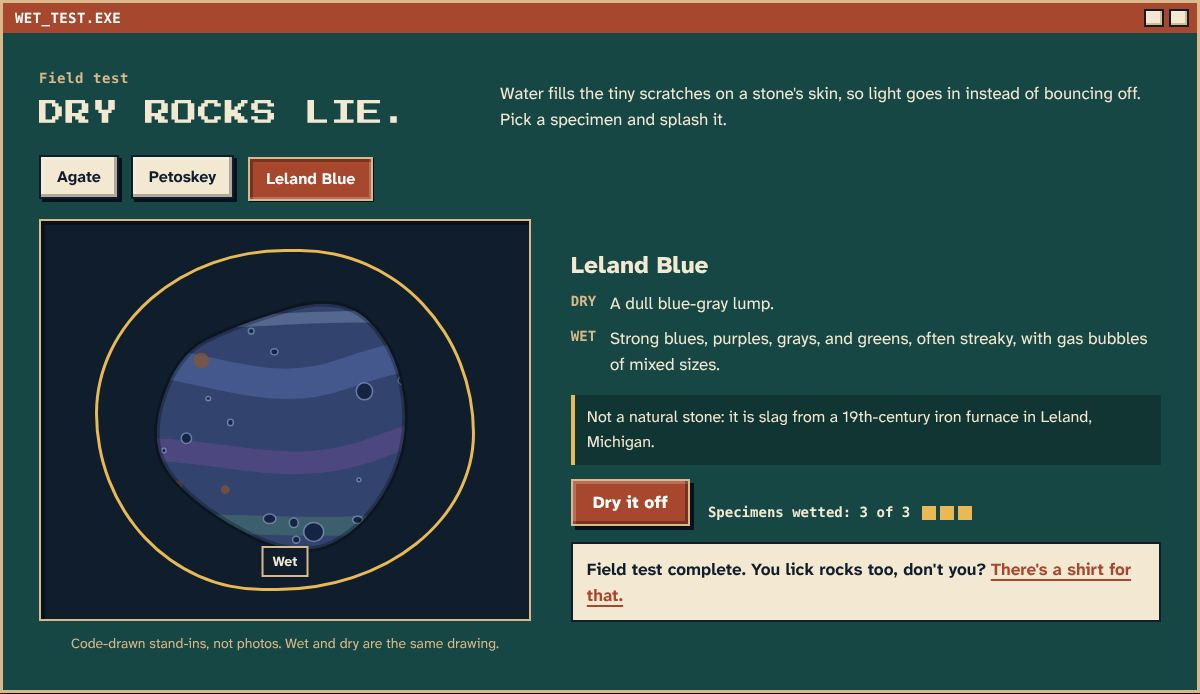
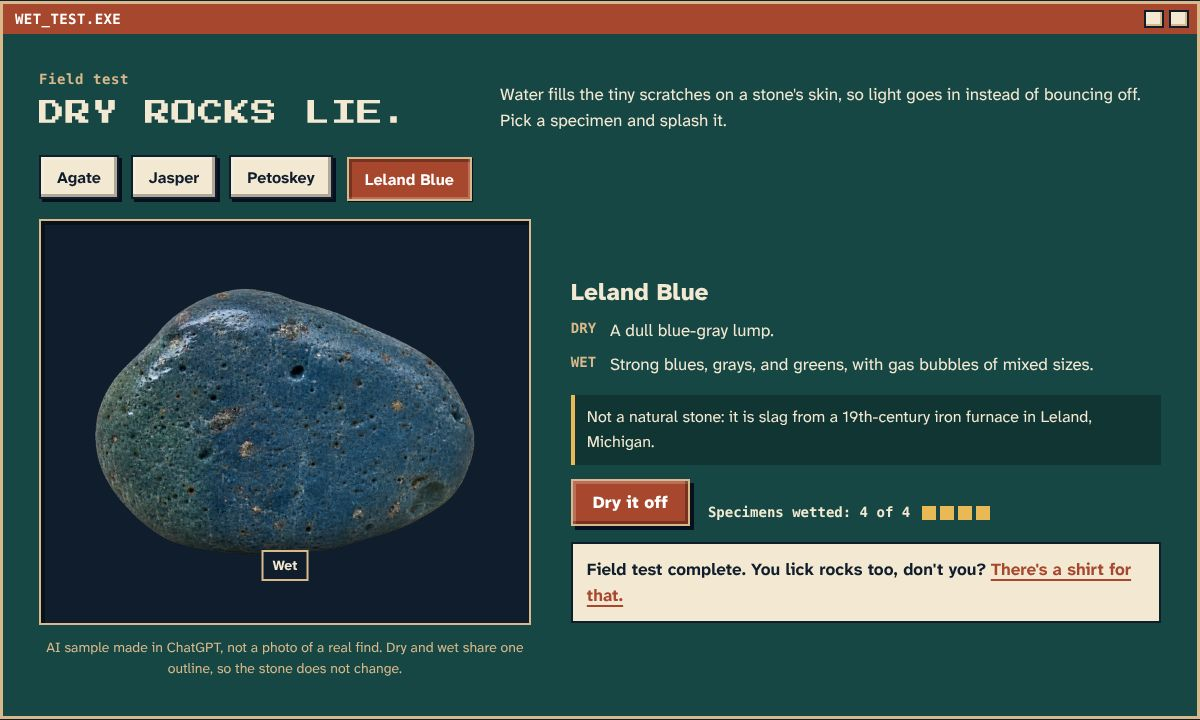
Use ChatGPT stone pairs for every wet-test specimen
Adds red jasper, Petoskey, and Leland Blue dry/wet AI sample pairs.
scripts/stone_pairs.py gives each pair one shared outline (removing the
baked-in glow halo) and an identical crop. The wet test now has four
stones; the code-drawn stones are retired.

Claude-Session: https://claude.ai/code/session_01AdWLFtHpwbtihYBfYsohYt

diff --git a/theme/v2/storefront.js b/theme/v2/storefront.js
@@ -91,72 +91,37 @@ function tee(kind){
   return svg;
 }
 
-/* ---------- 4. Field-guide stones (code-drawn stand-ins, flagged as such) ----------
-   Petoskey cells are irregular on purpose (IMAGE_STANDARDS.md: varied, incomplete,
-   flush cells, never stamped identical hexagons). Wetting only changes filters
-   and dust, so wet and dry are always the same specimen. */
+/* ---------- 4. Wet-test stones ----------
+   Every stone is a ChatGPT AI sample pair. Each pair shares ONE outline
+   (scripts/stone_pairs.py, alpha channels identical), so wetting only changes
+   the surface, never the stone. */
 var STONES={
-  agate:{name:"Lake Superior agate",label:"Code-drawn Lake Superior agate: a red-brown pebble with uneven red and cream bands",
+  agate:{name:"Lake Superior agate",img:"agate-hero",
+    alt:"AI sample of a dry Lake Superior agate: a dusty, muted rust-red pebble with faint bands",
+    credit:"AI sample made in ChatGPT, not a photo of a real find. The wet image is an edit of the dry one, so the stone does not change.",
     dry:"A dull, waxy, often pitted red-brown pebble that hides in plain sight.",
     wet:"Glossy and a little see-through at the edges, sometimes with thin bands on a broken face.",
     aside:"Hold it up to the sun. The only red rock on the beach that lets a little daylight through."},
-  petoskey:{name:"Petoskey stone",label:"Code-drawn Petoskey stone: gray limestone with irregular, roughly six-sided coral cells, each with a dark center",
+  jasper:{name:"Red jasper",img:"jasper",
+    alt:"AI sample of a dry red jasper pebble: opaque brick red with a thin pale vein",
+    credit:"AI sample made in ChatGPT, not a photo of a real find. Dry and wet share one outline, so the stone does not change.",
+    dry:"A dull brick-red pebble, sometimes with a thin pale vein.",
+    wet:"A deeper, glossier red, but still opaque: no light passes through, and no bands.",
+    aside:"A classic agate lookalike. If daylight will not pass through the edges, it is not an agate."},
+  petoskey:{name:"Petoskey stone",img:"petoskey",
+    alt:"AI sample of a dry Petoskey stone: pale gray limestone with faint round coral cells",
+    credit:"AI sample made in ChatGPT, not a photo of a real find. Dry and wet share one outline, so the stone does not change.",
     dry:"A plain gray or tan limestone pebble, maybe faintly mottled.",
-    wet:"Tightly packed, roughly six-sided cells show up, each with a dark eye and thin lines radiating out.",
+    wet:"Tightly packed cells show up, each with a dark eye and thin lines radiating out.",
     aside:"A fossil coral colony from a Devonian sea. Michigan's state stone since 1965."},
-  leland:{name:"Leland Blue",label:"Code-drawn Leland Blue slag: a blue-gray lump with streaks of blue, purple, and green and uneven bubbles",
+  leland:{name:"Leland Blue",img:"leland",
+    alt:"AI sample of a dry Leland Blue: a dull blue-gray lump with small pores of mixed sizes",
+    credit:"AI sample made in ChatGPT, not a photo of a real find. Dry and wet share one outline, so the stone does not change.",
     dry:"A dull blue-gray lump.",
-    wet:"Strong blues, purples, grays, and greens, often streaky, with gas bubbles of mixed sizes.",
+    wet:"Strong blues, grays, and greens, with gas bubbles of mixed sizes.",
     aside:"Not a natural stone: it is slag from a 19th-century iron furnace in Leland, Michigan."}
 };
-function stone(kind){
-  var id="s"+(uid++),r=rng({agate:23,petoskey:58,leland:91}[kind]);
-  var svg=el("svg",{viewBox:"0 0 200 180",role:"img","aria-label":STONES[kind].label});
-  var out=pebble(r,100,92,80,9);
-  var defs=el("defs",{}),cp=el("clipPath",{id:id+"c"});cp.appendChild(el("path",{d:out}));defs.appendChild(cp);svg.appendChild(defs);
-  var g=el("g",{"clip-path":"url(#"+id+"c)"});
-  if(kind==="agate"){
-    g.appendChild(el("rect",{width:"200",height:"180",fill:"#6E3424"}));
-    var base=[];for(var i=0;i<8;i++){var th=i/8*Math.PI*2+.4;base.push([Math.cos(th)*(1+(r()-.5)*.3),Math.sin(th)*(1+(r()-.5)*.3)*.86]);}
-    var dk=["#9A2E1A","#B5532F","#7E2616","#C46A3E"],lt=["#EDE3D2","#F1E7DA","#D9B99B"],s=.9,k=0;
-    while(s>.2&&k<60){
-      if(r()<.4){var cx=112+22*(1-s),cy=86-12*(1-s);g.appendChild(el("path",{d:roundPoly(base.map(function(p){return[cx+p[0]*70*s,cy+p[1]*70*s];})),fill:dk[k%4]}));s-=.06+r()*.07;k++;}
-      else{for(var j=0;j<4+Math.floor(r()*4)&&s>.2;j++){var cx2=112+22*(1-s),cy2=86-12*(1-s);g.appendChild(el("path",{d:roundPoly(base.map(function(p){return[cx2+p[0]*70*s,cy2+p[1]*70*s];})),fill:j%2?lt[j%3]:dk[(k+j)%4]}));s-=.012+r()*.012;}k++;}
-    }
-    g.appendChild(el("path",{d:roundPoly(base.map(function(p){return[128+p[0]*10,78+p[1]*10];})),fill:"#DCD6CB"}));
-    /* outer skin covering part of the stone, as on most real beach agates */
-    g.appendChild(el("path",{d:"M-10 120C30 104 60 150 110 150S180 120 210 140V190H-10Z",fill:"#5E2E22","fill-opacity":".85"}));
-  }else if(kind==="petoskey"){
-    g.appendChild(el("rect",{width:"200",height:"180",fill:"#A8A194"}));
-    /* a hex lattice whose shared corners are each nudged by a fixed random amount:
-       cells stay packed and flush but come out different sizes and shapes */
-    var R=14,w=Math.sqrt(3)*R,J=R*.32;
-    function corner(x,y){var kx=Math.round(x*10),ky=Math.round(y*10);return[x+(hash(kx,ky,1)-.5)*2*J,y+(hash(kx,ky,2)-.5)*2*J];}
-    for(var row=-1;row<11;row++){for(var col=-1;col<10;col++){
-      var x=col*w+(row%2?w/2:0),y=row*R*1.5,pts=[];
-      for(var v=0;v<6;v++){var a=Math.PI/3*v+Math.PI/6;pts.push(corner(x+Math.cos(a)*R,y+Math.sin(a)*R));}
-      var ccx=0,ccy=0;pts.forEach(function(p){ccx+=p[0];ccy+=p[1];});ccx/=6;ccy/=6;
-      var shade=["#BDB5A6","#B3AB9C","#C2BAAA","#AEA697"][Math.floor(r()*4)];
-      g.appendChild(el("polygon",{points:pts.map(function(p){return p[0].toFixed(1)+","+p[1].toFixed(1);}).join(" "),fill:shade,stroke:"#6A6357","stroke-width":(1+r()*.9).toFixed(2)}));
-      var rays=9+Math.floor(r()*6),rot=r()*Math.PI;
-      for(var q=0;q<rays;q++){var b=rot+q/rays*Math.PI*2,len=R*(.45+r()*.3);g.appendChild(el("line",{x1:ccx.toFixed(1),y1:ccy.toFixed(1),x2:(ccx+Math.cos(b)*len).toFixed(1),y2:(ccy+Math.sin(b)*len).toFixed(1),stroke:"#746C60","stroke-width":".7","stroke-opacity":(.5+r()*.4).toFixed(2)}));}
-      g.appendChild(el("ellipse",{cx:(ccx+(r()-.5)*2).toFixed(1),cy:(ccy+(r()-.5)*2).toFixed(1),rx:(2+r()*1.4).toFixed(1),ry:(1.8+r()*1.2).toFixed(1),fill:"#4A443B"}));
-    }}
-    /* worn patch where the pattern fades, like a real tumbled stone */
-    g.appendChild(el("ellipse",{cx:"58",cy:"130",rx:"46",ry:"30",fill:"#A8A194","fill-opacity":".55"}));
-  }else{
-    g.appendChild(el("rect",{width:"200",height:"180",fill:"#3A4A6E"}));
-    [["M-10 64C40 46 80 84 130 66S210 52 220 72","#56679A",16,.7],["M-10 112C50 92 90 128 150 104S210 118 220 112","#64528A",12,.6],["M10 150C60 136 110 156 200 138","#4F7470",10,.6],["M20 34C70 46 120 28 190 40","#7F8EB0",6,.5]].forEach(function(s){g.appendChild(el("path",{d:s[0],stroke:s[1],"stroke-width":s[2],"stroke-opacity":s[3],fill:"none","stroke-linecap":"round"}));});
-    for(var bI=0;bI<22;bI++){var bx=24+r()*152,by=26+r()*128,br=1+r()*r()*6.5;g.appendChild(el("ellipse",{cx:bx.toFixed(1),cy:by.toFixed(1),rx:br.toFixed(1),ry:(br*(.75+r()*.4)).toFixed(1),fill:"#1E2A45",stroke:"#9FB0D6","stroke-width":".8","stroke-opacity":".6"}));}
-    for(var rs=0;rs<4;rs++){g.appendChild(el("circle",{cx:(30+r()*140).toFixed(1),cy:(30+r()*120).toFixed(1),r:(2+r()*3).toFixed(1),fill:"#8A5A3A","fill-opacity":".7"}));}
-  }
-  var nf=el("filter",{id:id+"n",x:"0",y:"0",width:"100%",height:"100%"});nf.appendChild(el("feTurbulence",{type:"fractalNoise",baseFrequency:".9",numOctaves:"2",stitchTiles:"stitch"}));nf.appendChild(el("feColorMatrix",{values:"0 0 0 0 .93 0 0 0 0 .91 0 0 0 0 .86 0 0 0 .7 0"}));defs.appendChild(nf);
-  g.appendChild(el("rect",{width:"200",height:"180",fill:"#E9E4D8","fill-opacity":".18",class:"dust"}));
-  g.appendChild(el("rect",{width:"200",height:"180",filter:"url(#"+id+"n)",class:"dust"}));
-  svg.appendChild(g);
-  svg.appendChild(el("path",{d:out,fill:"none",stroke:"#000","stroke-opacity":".25","stroke-width":"3"}));
-  return svg;
-}
+var STONE_COUNT=Object.keys(STONES).length;
 
 function fillArt(root){
   $$("[data-tee]",root).forEach(function(n){if(!n.firstChild)n.appendChild(tee(n.dataset.tee));});
@@ -303,12 +268,13 @@ cartBtn.addEventListener("click",function(){if(dlg.showModal)dlg.showModal();els
 $("#cart-close").addEventListener("click",function(){if(dlg.close)dlg.close();else dlg.removeAttribute("open");});
 dlg.addEventListener("click",function(e){if(e.target===dlg)dlg.close();});
 
-/* the agate dry and wet images share one outline (identical alpha), so swapping
-   them never changes the stone's shape; only the surface goes from dusty to wet */
-function photoPair(){
-  var w=document.createElement("span");w.className="photo-pair";
-  w.innerHTML='<img class="pp-dry" src="'+OWN+'agate-hero-dry.webp" alt="AI sample of a dry Lake Superior agate: a dusty, muted rust-red pebble with faint bands" width="1280" height="1024">'+
-    '<img class="pp-wet" src="'+OWN+'agate-hero-wet.webp" alt="" aria-hidden="true" width="1280" height="1024">';
+/* dry image underneath, wet image fades in on top; both share one outline */
+function photoPair(kind){
+  var s=STONES[kind],w=document.createElement("span");w.className="photo-pair";
+  var dry=document.createElement("img"),wet=document.createElement("img");
+  dry.className="pp-dry";dry.src=OWN+s.img+"-dry.webp";dry.alt=s.alt;dry.width=1280;dry.height=1024;
+  wet.className="pp-wet";wet.src=OWN+s.img+"-wet.webp";wet.alt="";wet.setAttribute("aria-hidden","true");wet.width=1280;wet.height=1024;
+  w.appendChild(dry);w.appendChild(wet);
   return w;
 }
 
@@ -320,15 +286,12 @@ function selectStone(kind,focus){
   tabs.forEach(function(t){var on=t.dataset.stoneTab===kind;t.setAttribute("aria-selected",String(on));t.tabIndex=on?0:-1;if(on&&focus)t.focus();});
   panel.setAttribute("aria-labelledby","tab-"+kind);
   var s=STONES[kind];
-  if(!drawn[kind])drawn[kind]=kind==="agate"?photoPair():stone(kind);
+  if(!drawn[kind])drawn[kind]=photoPair(kind);
   labMedia.innerHTML="";labMedia.appendChild(drawn[kind]);
   labStone.dataset.kind=kind;
-  labStone.classList.toggle("is-photo",kind==="agate");
-  $("#lab-credit").textContent=kind==="agate"?
-    "AI sample made in ChatGPT, not a photo of a real find. The wet image is an edit of the dry one, so the stone does not change.":
-    "Code-drawn stand-in, not a photo. Wet and dry are the same drawing.";
+  $("#lab-credit").textContent=s.credit;
   labStone.setAttribute("aria-pressed","false");
-  labStone.setAttribute("aria-label","Wet the "+s.name+(kind==="agate"?" sample image":" drawing"));
+  labStone.setAttribute("aria-label","Wet the "+s.name+" sample image");
   $("#lab-name").textContent=s.name;$("#lab-dry").textContent=s.dry;$("#lab-wet").textContent=s.wet;$("#lab-aside").textContent=s.aside;
   syncSplash();
 }
@@ -347,10 +310,11 @@ labStone.addEventListener("wetchange",function(){
   if(labStone.getAttribute("aria-pressed")!=="true")return;
   wetted[labStone.dataset.kind]=true;
   var n=Object.keys(wetted).length;
-  $("#lab-count").textContent="Specimens wetted: "+n+" of 3";
+  $("#lab-count").textContent="Specimens wetted: "+n+" of "+STONE_COUNT;
   $$(".pips i").forEach(function(p,i){p.classList.toggle("on",i<n);});
-  if(n===3)$("#lab-done").hidden=false;
+  if(n===STONE_COUNT)$("#lab-done").hidden=false;
 });
 selectStone("agate",false);
+Object.keys(STONES).forEach(function(k){var i=new Image();i.src=OWN+STONES[k].img+"-wet.webp";});
 
 })();

diff --git a/theme/v2/index.html b/theme/v2/index.html
@@ -259,13 +259,14 @@
     </div>
     <div class="tabs" role="tablist" aria-label="Specimens">
       <button class="tab" role="tab" type="button" id="tab-agate" aria-controls="lab-panel" aria-selected="true" data-stone-tab="agate">Agate</button>
+      <button class="tab" role="tab" type="button" id="tab-jasper" aria-controls="lab-panel" aria-selected="false" tabindex="-1" data-stone-tab="jasper">Jasper</button>
       <button class="tab" role="tab" type="button" id="tab-petoskey" aria-controls="lab-panel" aria-selected="false" tabindex="-1" data-stone-tab="petoskey">Petoskey</button>
       <button class="tab" role="tab" type="button" id="tab-leland" aria-controls="lab-panel" aria-selected="false" tabindex="-1" data-stone-tab="leland">Leland Blue</button>
     </div>
     <div class="lab" id="lab-panel" role="tabpanel" aria-labelledby="tab-agate">
       <div>
         <div class="tray">
-          <button class="wet" id="lab-stone" type="button" aria-pressed="false" aria-label="Wet the Lake Superior agate drawing">
+          <button class="wet is-photo" id="lab-stone" type="button" aria-pressed="false" aria-label="Wet the Lake Superior agate drawing">
             <span class="wet-media" id="lab-media"></span>
             <span class="wet-hint" aria-hidden="true"><span class="is-dry">Tap to wet</span><span class="is-wet">Wet</span></span>
           </button>
@@ -281,7 +282,7 @@
         <p class="aside" id="lab-aside">Hold it up to the sun. The only red rock on the beach that lets a little daylight through.</p>
         <div class="lab-actions">
           <button class="btn" id="lab-splash" type="button" aria-controls="lab-stone">Splash it</button>
-          <span class="log" aria-live="polite"><span id="lab-count">Specimens wetted: 0 of 3</span><span class="pips" aria-hidden="true"><i></i><i></i><i></i></span></span>
+          <span class="log" aria-live="polite"><span id="lab-count">Specimens wetted: 0 of 4</span><span class="pips" aria-hidden="true"><i></i><i></i><i></i><i></i></span></span>
         </div>
         <p class="lab-done" id="lab-done" hidden>Field test complete. You lick rocks too, don't you? <a href="#product" data-view="lick">There's a shirt for that.</a></p>
       </div>

diff --git a/theme/v2/qa/run_qa.js b/theme/v2/qa/run_qa.js
@@ -61,10 +61,10 @@ await p.waitForTimeout(700);ok('added message + cart count',(await p.textContent
 await p.click('a[data-view=chart]');await p.waitForTimeout(300);ok('stand-in product: Add disabled',await p.$eval('#add',e=>e.disabled&&e.textContent==='Art in progress'));
 await p.click('#cart-open');ok('cart dialog opens',await p.$eval('#cart',d=>d.open));await p.keyboard.press('Escape');ok('Esc closes cart',!(await p.$eval('#cart',d=>d.open)));
 // wet test
-if((await p.getAttribute('#lab-stone','aria-pressed'))!=='true')await p.click('#lab-splash');await p.click('#tab-petoskey');await p.click('#lab-stone');await p.focus('#tab-petoskey');await p.keyboard.press('ArrowRight');
+if((await p.getAttribute('#lab-stone','aria-pressed'))!=='true')await p.click('#lab-splash');await p.click('#tab-jasper');await p.click('#lab-splash');await p.click('#tab-petoskey');await p.click('#lab-stone');await p.focus('#tab-petoskey');await p.keyboard.press('ArrowRight');
 ok('arrow keys move tabs',(await p.evaluate(()=>document.activeElement.id))==='tab-leland');
 await p.keyboard.press('Tab');await p.keyboard.press('Enter');
-ok('all 3 wetted unlocks message',!(await p.$eval('#lab-done',e=>e.hidden)),await p.textContent('#lab-count'));
+ok('all 4 wetted unlocks message',!(await p.$eval('#lab-done',e=>e.hidden)),await p.textContent('#lab-count'));
 await p.$eval('#wet-test',e=>e.scrollIntoView());await p.waitForTimeout(700);
 await (await p.$('#wet-test')).screenshot({path:`${out}/wet-test-desktop-wet.png`});
 ok('no 4xx/JS errors',bad.length===0,bad.join(','));

diff --git a/theme/v2/storefront.css b/theme/v2/storefront.css
@@ -292,7 +292,7 @@ h1,h2,h3{margin:0;line-height:1.25;text-wrap:balance}
 .lab{display:grid;gap:24px;margin-top:20px}
 @media (min-width:860px){.lab{grid-template-columns:minmax(0,5fr) minmax(0,6fr);gap:40px;align-items:center}}
 .tray{padding:clamp(16px,3vw,28px);background:var(--hp-ink);border:2px solid var(--hp-sand);box-shadow:inset 4px 4px 0 rgba(0,0,0,.4)}
-.tray .wet{max-width:380px;margin:0 auto;border-radius:50% 46% 52% 44% / 48% 54% 46% 52%}
+.tray .wet{max-width:380px;margin:0 auto}
 .tray .wet-media{aspect-ratio:200/180}
 .tray .wet-media svg{display:block;width:100%;height:100%}
 .tray .wet-hint{right:50%;transform:translateX(50%);bottom:14px}

diff --git a/scripts/stone_pairs.py b/scripts/stone_pairs.py
@@ -1,0 +1,66 @@
+"""Prepare ChatGPT dry/wet stone pairs for the storefront wet test.
+
+For each pair:
+  1. Build ONE shared outline: pixels that are solid (alpha > 200) in both the
+     dry and the wet image, smoothed by 1 px. This drops the soft glow halo that
+     the generator baked into the transparent edge (IMAGE_STANDARDS.md: no glow
+     around the stone) and makes the dry and wet outlines identical.
+  2. Apply that outline to both images. No pixel inside the stone is moved,
+     recolored, or retouched.
+  3. Crop both with the same 5:4 box around the stone and save 1280 x 1024 WebP.
+
+Usage: python3 scripts/stone_pairs.py   (reads theme/v2/img/src/, writes theme/v2/img/)
+"""
+from pathlib import Path
+import numpy as np
+from PIL import Image, ImageFilter
+
+ROOT = Path(__file__).resolve().parent.parent
+SRC = ROOT / "theme/v2/img/src"
+OUT = ROOT / "theme/v2/img"
+PAIRS = ["jasper", "petoskey", "leland"]
+W, H, PAD = 1280, 1024, 0.07
+
+
+def load(path):
+    return Image.open(path).convert("RGBA")
+
+
+def shared_mask(dry, wet):
+    a = np.array(dry)[..., 3] > 200
+    b = np.array(wet)[..., 3] > 200
+    m = Image.fromarray(((a & b) * 255).astype("uint8"))
+    m = m.filter(ImageFilter.MinFilter(3))          # pull in 1 px to drop edge fringe
+    return m.filter(ImageFilter.GaussianBlur(0.8))  # soft 1 px edge, no halo
+
+
+def crop_box(mask):
+    x0, y0, x1, y1 = mask.point(lambda v: 255 if v > 128 else 0).getbbox()
+    w, h = x1 - x0, y1 - y0
+    w, h = w * (1 + 2 * PAD), h * (1 + 2 * PAD)
+    if w / h < W / H:
+        w = h * W / H
+    else:
+        h = w * H / W
+    cx, cy = (x0 + x1) / 2, (y0 + y1) / 2
+    return tuple(round(v) for v in (cx - w / 2, cy - h / 2, cx + w / 2, cy + h / 2))
+
+
+def main():
+    for name in PAIRS:
+        dry, wet = load(SRC / f"{name}-dry.png"), load(SRC / f"{name}-wet.png")
+        assert dry.size == wet.size, name
+        mask = shared_mask(dry, wet)
+        box = crop_box(mask)
+        for state, img in (("dry", dry), ("wet", wet)):
+            out = img.copy()
+            out.putalpha(mask)
+            out = out.crop(box).resize((W, H), Image.LANCZOS)
+            out.save(OUT / f"{name}-{state}.webp", "WEBP", quality=82, method=6)
+        d = np.array(Image.open(OUT / f"{name}-dry.webp"))[..., 3]
+        w = np.array(Image.open(OUT / f"{name}-wet.webp"))[..., 3]
+        print(f"{name}: crop {box}, alpha identical: {np.array_equal(d, w)}")
+
+
+if __name__ == "__main__":
+    main()

diff --git a/CLAUDE.md b/CLAUDE.md
@@ -120,7 +120,7 @@ Fact idea: Leland Blue is slag from a 19th-century iron smelter in Leland, Michi
 - `research/Printify_Catalog_Findings.md`: real costs, providers, and print sizes.
 - `content/Field_Guide_Draft.md`: field guide draft with a fact-check log and [VERIFY] tags.
 - `designs/lick/`: "I lick rocks" art (HTML source and print PNGs). `designs/socks/`: Petoskey previews and `print/` panels.
-- `scripts/`: `tm_search.py`, `listing_check.py` (no em dashes, Oxford comma, flagged claims), `publish_design.py` (creates unpublished Printify products), `sock_petoskey.py`, `render_lick.js`, tests in `scripts/tests/`, and `README.md`.
+- `scripts/`: `stone_pairs.py` (prepares dry/wet stone image pairs), `tm_search.py`, `listing_check.py` (no em dashes, Oxford comma, flagged claims), `publish_design.py` (creates unpublished Printify products), `sock_petoskey.py`, `render_lick.js`, tests in `scripts/tests/`, and `README.md`.
 - `theme/preview/`: Step 11 store preview (draft, built in direction E).
 - `brand/v2/`: v2 brand system (locked tokens, decisions, approved hero art). `theme/v2/`: storefront preview v2 with QA screenshots and test scripts.
 - `content/Video_Content_Bank.md`: 20 video ideas, posting plan, and community notes.
@@ -146,3 +146,4 @@ Fact idea: Leland Blue is slag from a 19th-century iron smelter in Leland, Michi
 - **2026-11-05 (later):** Merged PR #2 (locked palette and fonts) into a new branch `storefront/v2-retro-integration` and built the full storefront preview in `theme/v2/` with the retro button system. 45 browser checks and a contrast check pass. Old preview untouched. Next: Brian reviews on his phone and iPad.
 - **2026-11-05 (later):** Brian asked for the shop to match the retro style (products stay placeholders). Reworked it as one 90s file window: toolbar with filters, sunken pane, each product as a small window (title bar turns rust when active) with a stats box, and a live status bar. Product viewer image got the same sunken frame. 45 browser checks pass (an earlier note said 45 when it was 44; one check was added).
 - **2026-11-05 (later):** Brian asked to use ChatGPT's images. Copied the ChatGPT agate dry/wet AI sample pair and the Petoskey sock concept into `theme/v2/img/` (credits in `img/CREDITS.md`). Agate in the wet test now cross-fades the pair; socks card and viewer show the concept with a CONCEPT label. Tees, Petoskey, and Leland stones stay as before (no ChatGPT images for them in the repo).
+- **2026-11-05 (later):** Brian sent ChatGPT dry/wet stone images in chat. Added red jasper, Petoskey, and Leland Blue pairs to the wet test (now 4 stones: agate, jasper, Petoskey, Leland Blue). `scripts/stone_pairs.py` gives each pair one shared outline, which also removes the glow halo the generator baked in. Raw files in `theme/v2/img/src/`. A gray basalt and a pale tan stone came without wet versions, so they are unused.

diff --git a/theme/v2/img/CREDITS.md b/theme/v2/img/CREDITS.md
@@ -9,3 +9,13 @@ Copied byte for byte from branch `claude/gifted-clarke-u7rlbp` (`site/prototype/
 | `petoskey-sock-concept.webp` | ChatGPT image generation supplied by Brian (Nov 3, 2026), band glints reduced by Claude's `scripts/matte_band.py`. | Concept only. A printed sock is matte and its stripes are printed. Replace with a Printify sample photo. |
 
 Brian's reference photos guided the agate's look only. They are not copied, traced, or published here.
+
+## Wet-test stone pairs (added Nov 5, 2026)
+
+| Files | Source | Processing | Status |
+|---|---|---|---|
+| `jasper-dry.webp`, `jasper-wet.webp` | ChatGPT image generation, supplied by Brian in chat (Nov 5, 2026). Raw files in `src/`. | `scripts/stone_pairs.py`: one shared outline from both images (removes the baked-in glow halo), identical crop, WebP q82. No pixels inside the stone changed. | AI SAMPLE. Replace with Brian's own photo pair. |
+| `petoskey-dry.webp`, `petoskey-wet.webp` | Same | Same | AI SAMPLE |
+| `leland-dry.webp`, `leland-wet.webp` | Same | Same | AI SAMPLE |
+
+Not used yet (no wet version supplied): a dark gray basalt-like pebble and a pale tan stone.
